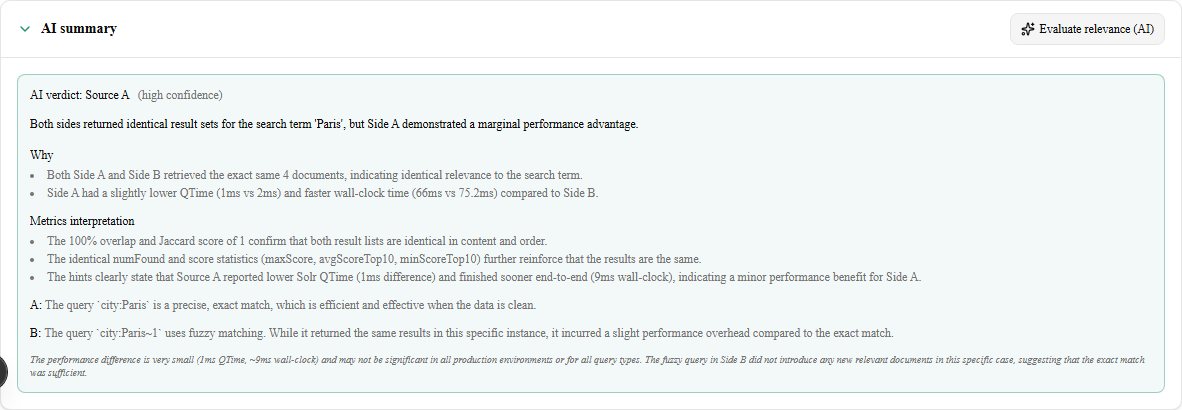
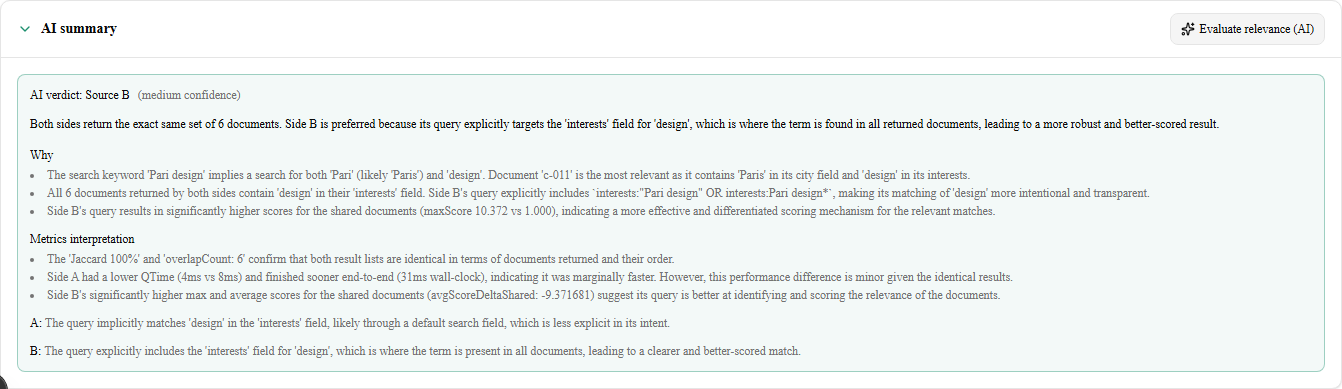
updated docs

diff --git a/README.md b/README.md
@@ -27,12 +27,12 @@ Visual sidecar for Solr query and analysis — build searches, compare two setup
 | Play (builder) | Play (classic) | Compare | Analyze |
 | :---: | :---: | :---: | :---: |
 | ![Query builder](docs/screenshots/play-query-builder.png) | ![Classic syntax](docs/screenshots/play-classic.png) | ![Compare tab](docs/screenshots/compare-overview.png) | ![Schema analyze tab](docs/screenshots/analyze-schema.png) |
-| Field matchers, fuzzy mode, Run + hits | Raw `q`, parser, request preview | A/B sources, comparison metrics, result columns | Field types, flags, dynamic rules, copyFields |
+| Field matchers, fuzzy mode, Run + hits | Raw `q`, parser, request preview | Templates **customers from paris search** / **search2**, shared term `Pari design`, comparison + AI button | Field types, flags, dynamic rules, copyFields |
 
 | Compare (AI evaluation) | Results (expanded) | Load from source | Connection header |
 | :---: | :---: | :---: | :---: |
 | ![Compare with Gemini AI verdict](docs/screenshots/compare-ai-summary.png) | ![Expanded hit with indexed tokens](docs/screenshots/play-results-expanded.png) | ![Template picker and Solr URL import](docs/screenshots/load-from-source.png) | ![Endpoint and core controls](docs/screenshots/header-connection.png) |
-| Enabled **Evaluate relevance (AI)** verdict + reasons | Score bar, field groups, indexed analysis | Template picker + Solr URL import | Endpoint/core switcher, refresh cores |
+| After **Evaluate relevance (AI)** on the same template pair | Score bar, field groups, indexed analysis | Template picker + Solr URL import | Endpoint/core switcher, refresh cores |
 
 **Regenerate screenshots** (Playwright; needs Solr + app on :3000):
 
@@ -42,7 +42,7 @@ npx playwright install chromium      # once, after npm install
 npm run screenshots
 ```
 
-Output goes to [`docs/screenshots/`](docs/screenshots/) (8 PNGs). The **compare-ai-summary** capture calls Gemini and requires a saved `GEMINI_API_KEY` in `.env.local`; if the key is missing, that PNG is skipped with a console warning. Override the app URL with `APP_URL=http://localhost:3000` if needed. See [`scripts/capture-screenshots.mjs`](scripts/capture-screenshots.mjs) for the capture flow.
+Output goes to [`docs/screenshots/`](docs/screenshots/) (8 PNGs). The **Compare** captures load templates **customers from paris search** (Source A) and **customers from paris search2** (Source B), run a shared search for **`Pari design`**, and show the comparison summary plus **Evaluate relevance (AI)**. Templates are created automatically if missing. **compare-ai-summary** calls Gemini and needs a saved `GEMINI_API_KEY` in `.env.local`. Override the app URL with `APP_URL=http://localhost:3000` if needed. See [`scripts/capture-screenshots.mjs`](scripts/capture-screenshots.mjs) for the capture flow.
 
 ## Continuous integration
 
@@ -202,7 +202,7 @@ Templates live in the `query_builder_templates` table (migration v2). Manage or 
 
 The **Compare** tab runs two query setups side by side against the same core and endpoint:
 
-1. **Source A** and **Source B** — each has **Load from source** (Solr URL or saved template), same as Query builder. Both must be loaded before comparing.
+1. **Source A** and **Source B** — each has **Load from source** (Solr URL or saved template), same as Query builder. Both must be loaded before comparing. The README preview uses templates **customers from paris search** (A) and **customers from paris search2** (B) with shared search **`Pari design`**.
 2. **Search (shared)** — one search box; both plans use this text when you click **Compare queries** (Enter runs compare when ready).
 3. **Comparison summary** (collapsible) — table with Solr QTime, wall-clock time, total hits, max/avg scores; chips for overlap, Jaccard, only-in-A/B, avg rank shift, score ratio; neutral hint bullets.
 4. **Top 10** results per side (same expandable `ResultDoc` list as Play, including field analysis).
@@ -220,7 +220,7 @@ Copy [`.env.example`](.env.example) to `.env.local`, set your key from [Google A
 | `COMPARE_AI_API_KEY` | Alternative key name (fallback if `GEMINI_API_KEY` is unset) |
 | `COMPARE_AI_MODEL` | Gemini model id (default `gemini-2.5-flash`) |
 
-`GET /api/compare/evaluate` reports whether a key is configured (`{ "available": true }`). The **Evaluate relevance (AI)** button also requires **both Source A and Source B to return at least one hit** after **Compare queries** — use a shared search term that matches on both sides (e.g. `Paris` on the `customers` core with city/state matchers).
+`GET /api/compare/evaluate` reports whether a key is configured (`{ "available": true }`). The **Evaluate relevance (AI)** button also requires **both Source A and Source B to return at least one hit** after **Compare queries** — use a shared search term that matches on both sides (e.g. **`Pari design`** with Paris/design field templates on the `customers` core).
 
 **Evaluate relevance (AI)** calls `POST /api/compare/evaluate` with both response bodies and metrics. The **AI summary** panel shows the Gemini verdict (`a`, `b`, or `tie`), confidence, summary, reasons, metrics interpretation, per-side notes, and caveats.
 
